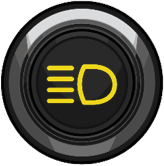
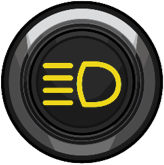
made all buttons clickable with ON images

Changed region(s): [[0.2439, 0.3636, 0.7622, 0.6667]]

diff --git a/main.py b/main.py
@@ -4,6 +4,7 @@ import math
 from random import randint, choice
 from utils import *
 
+
 pygame.init()
 #pygame.mixer.init()
 #pygame.font.init()
@@ -165,34 +166,26 @@ class Border(pygame.sprite.Sprite):
 
 class DashboardButton(pygame.sprite.Sprite):
     
-    def __init__(self, image, scale, x_pos, y_pos):
+    def __init__(self, image_off, image_on, scale, x_pos, y_pos):
         super(DashboardButton,self).__init__()
 
-        self.image = scale_image(image,scale)
+        self.image = scale_image(image_off,scale)
         self.scale = scale
         self.rect = self.image.get_rect()
         self.rect.x = x_pos
         self.rect.y = y_pos
         self.pressed = False
+        self.switch_image = scale_image(image_on,scale)
 
-    def update_image(self,new_image):
-        self.image = scale_image(new_image,self.scale)
+    def button_pressed(self):
+        self.pressed = (not self.pressed)
+        self.update_image()
 
-"""
-    def draw_button(self, win):
-        action_needed = False
-        mouse_pos = pygame.mouse.get_pos()
-        if self.rect.collidepoint(mouse_pos):
-            if pygame.mouse.get_pressed()[0] and not self.pressed:
-                action_needed = True
-                self.pressed = True
+    def update_image(self):
+        temp = self.image
+        self.image = self.switch_image
+        self.switch_image = temp
 
-            if not pygame.mouse.get_pressed()[0]:
-                self.pressed = False
-
-        win.blit(self.image, self.rect)
-        return action_needed
-"""
 #-------------------------------------------------------------
 
 def draw(win, images, player_car):
@@ -339,18 +332,22 @@ for i in range(1,7):
 
 menu_btn_img = pygame.image.load("Assets\Images\Dashboard\Buttons/menu_btn.png")
 
-lights_btn = DashboardButton(button_images_off[0], 0.55, 20, 500)
-left_blinker_btn = DashboardButton(button_images_off[1], 0.65, 130, 500)
-right_blinker_btn = DashboardButton(button_images_off[2], 0.65, 505, 500)
-wipers_btn = DashboardButton(button_images_off[3], 0.55, 620, 500)
-ac_btn = DashboardButton(button_images_off[4], 0.55, 740, 500)
-music_btn = DashboardButton(button_images_off[5], 0.55, 860, 500)
-menu_btn = DashboardButton(menu_btn_img, 0.55, 980, 480)
+lights_btn = DashboardButton(button_images_off[0], button_images_on[0], 0.55, 20, 500)
+left_blinker_btn = DashboardButton(button_images_off[1], button_images_on[1], 0.65, 110, 480)
+right_blinker_btn = DashboardButton(button_images_off[2], button_images_on[2],0.65, 485, 480)
+wipers_btn = DashboardButton(button_images_off[3], button_images_on[3], 0.55, 620, 500)
+ac_btn = DashboardButton(button_images_off[4], button_images_on[4], 0.55, 740, 500)
+music_btn = DashboardButton(button_images_off[5], button_images_on[5], 0.55, 860, 500)
+menu_btn = DashboardButton(menu_btn_img, menu_btn_img, 0.55, 980, 480)
 
-buttons_list = pygame.sprite.Group()
-buttons_list.add(lights_btn, left_blinker_btn, right_blinker_btn, wipers_btn, 
+buttons_group = pygame.sprite.Group()
+buttons_group.add(lights_btn, left_blinker_btn, right_blinker_btn, wipers_btn, 
                 ac_btn, music_btn, menu_btn)
+RADIUS = 45
 
+buttons_list = []
+for button in buttons_group:
+    buttons_list.append(button)
 #-------------------------------------------------------------------------
 # Game Loop
 while running:
@@ -359,46 +356,32 @@ while running:
 
     draw(WIN, images, player_car)
     
-    buttons_list.draw(WIN)
-
+    buttons_group.draw(WIN)
+    
     #all_sprite_list.draw(WIN)
 
     for event in pygame.event.get():
         # If player clicked X on the window
         if event.type == pygame.QUIT:   
             running = False
-            break  
+            break 
+        # If player clicked with left mouse button 
         if event.type == pygame.MOUSEBUTTONDOWN:
+            # Get current mouse position
             m_x, m_y = pygame.mouse.get_pos()
+            # Check if one of the dashboard buttons was pressed
+            for button in buttons_list:
+                dis = math.sqrt((button.rect.centerx-m_x)**2 + (button.rect.centery-m_y)**2)
+                #pygame.draw.circle(WIN, RED, (button.rect.centerx, button.rect.centery), RADIUS)
+                if (dis < RADIUS):
+                    button.button_pressed()
 
         """
         # Create the path for computer car
         if event.type == pygame.MOUSEBUTTONDOWN:
             pos = pygame.mouse.get_pos()
             path.append(pos)
-          
-    
-    if lights_btn.draw_button(WIN):
-        lights = not lights
-
-        if lights:
-            lights_btn.update_image(LIGHTS_ON_IMG)
-        else:
-            lights_btn.update_image(LIGHTS_OFF_IMG)
-    
-    for btn, pressed, img_off, img_on in buttons:
-        if btn.draw_button(WIN):
-            pressed = not pressed
-
-            if pressed:
-                btn.update_image(img_off)
-            else:
-                btn.update_image(img_on)
-    """
-        
-    
-    
-
+        """
 
     # move_player(player_car)
     #move_player(player)
